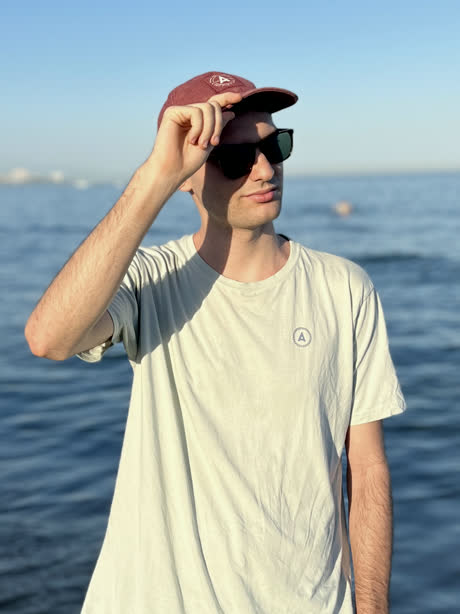
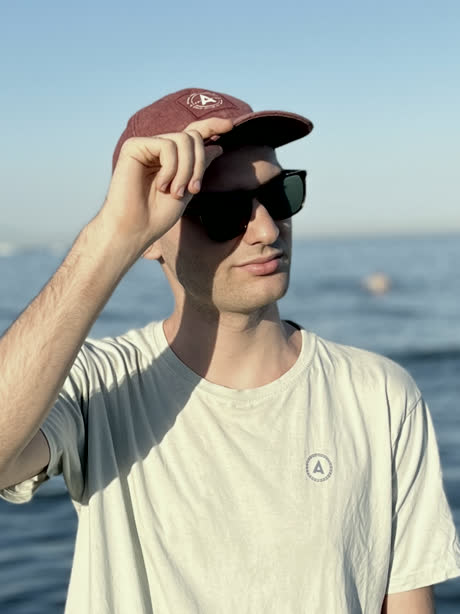
Recorte más cerrado del retrato
Menos cielo y menos mar, más figura, y la saturación algo más baja.
Sobre una página casi negra el azul de fondo se llevaba la atención de
la sección entera.

diff --git a/index.html b/index.html
@@ -751,7 +751,7 @@ footer p{margin:0;font-family:var(--f-mono);font-size:11px;letter-spacing:.08em;
       <img src="media/luis.jpg"
            srcset="media/luis-sm.jpg 460w, media/luis.jpg 760w"
            sizes="(max-width: 880px) 100vw, 420px"
-           width="700" height="933" loading="lazy" decoding="async"
+           width="760" height="1014" loading="lazy" decoding="async"
            alt="Luis Hidalgo, que es quien va a abrir tu aparato.">
       <figcaption>Luis Hidalgo <span>Quien te contesta y quien lo abre</span></figcaption>
     </figure>
